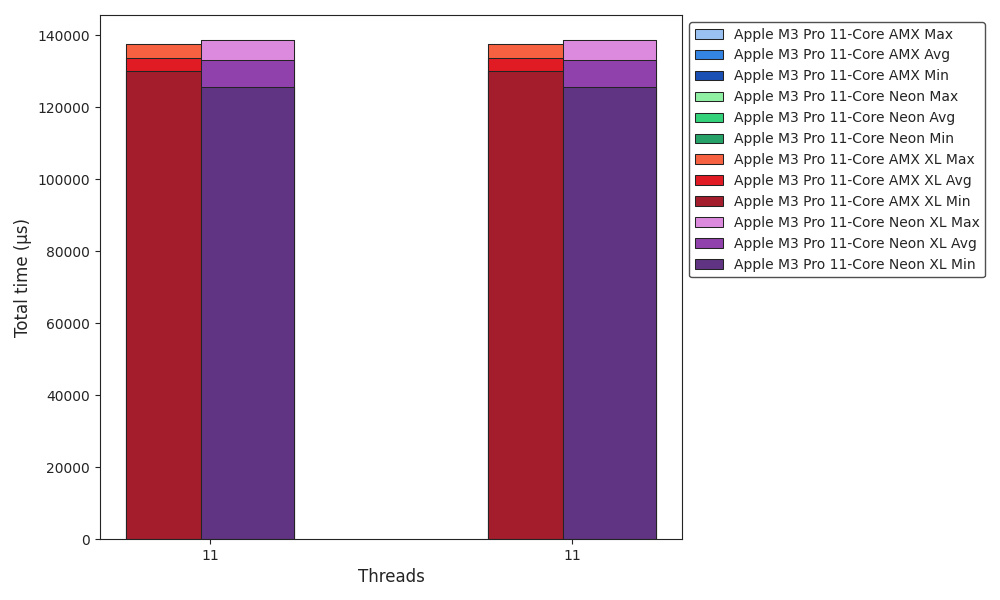
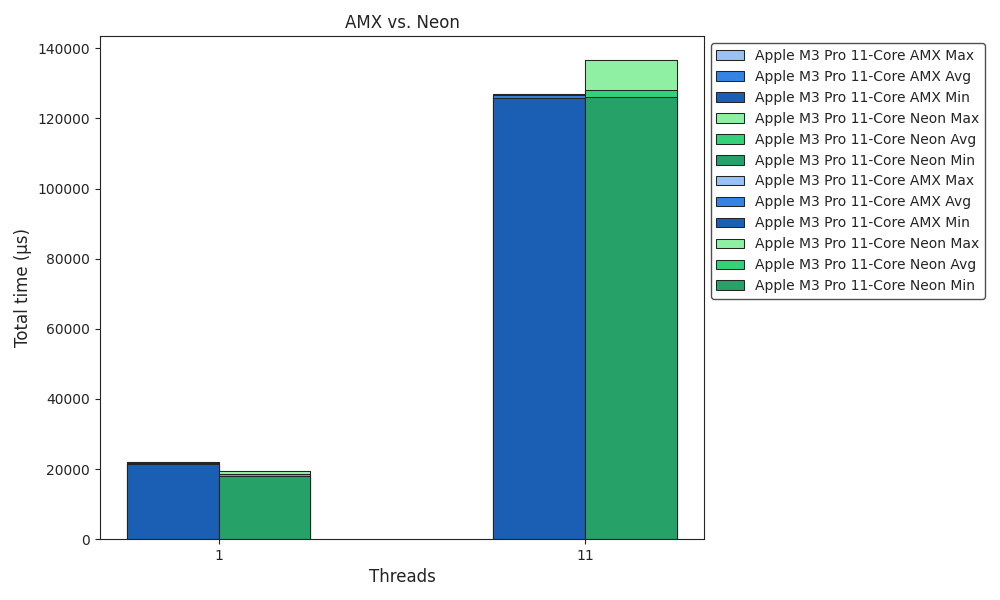
AMX Graphs for 5. Presentation
- Adding two Graphs for AMX vs. Neon
- Adding the final graphs for 5. Presentation

diff --git a/Source Code/py/plot.py b/Source Code/py/plot.py
@@ -62,9 +62,9 @@ df_apple_omp_xl_raw = pd.read_csv("./csv/4. Presentation/apple/benchmark_omp_xl.
 df_apple_xl_raw = pd.read_csv("./csv/4. Presentation/apple/benchmark_xl.csv")
 df_apple_xl_old_raw = pd.read_csv("./csv/3. Presentation/apple/benchmark_xl.csv")
 df_apple_amx = pd.read_csv("./csv/5. Presentation/apple/benchmark_amx.csv")
-df_apple_amx_xl = pd.read_csv("./csv/5. Presentation/apple/benchmark_amx.csv")
+df_apple_amx_xl = pd.read_csv("./csv/5. Presentation/apple/benchmark_amx_xl.csv")
 df_apple_neon = pd.read_csv("./csv/5. Presentation/apple/benchmark.csv")
-df_apple_neon_xl = pd.read_csv("./csv/5. Presentation/apple/benchmark.csv")
+df_apple_neon_xl = pd.read_csv("./csv/5. Presentation/apple/benchmark_xl.csv")
 
 tt_apple = df_apple_raw['total_time_us'].values
 tt_apple_old = df_apple_old_raw['total_time_us'].values
@@ -73,9 +73,9 @@ tt_apple_omp_xl = df_apple_omp_xl_raw['total_time_us'].values
 tt_apple_xl = df_apple_xl_raw['total_time_us'].values
 tt_apple_xl_old = df_apple_xl_old_raw['total_time_us'].values
 tt_apple_amx = df_apple_amx['total_time_us'].values
-tt_apple_amx_xl = df_apple_amx['total_time_us'].values
+tt_apple_amx_xl = df_apple_amx_xl['total_time_us'].values
 tt_apple_neon = df_apple_neon['total_time_us'].values
-tt_apple_neon_xl = df_apple_neon['total_time_us'].values
+tt_apple_neon_xl = df_apple_neon_xl['total_time_us'].values
 
 # intel
 df_intel_raw = pd.read_csv("./csv/4. Presentation/intel/benchmark.csv")
@@ -221,6 +221,19 @@ for i in range(len(threads)):
         df_amd_xl_nvidia_old.loc[threads_omp.index(threads[i]), 'max'] = np.max(tt_amd_xl_nvidia_old[0:10])
 
     # apple
+    if threads[i] == 1:
+        df_apple_amx.loc[threads.index(threads[i]), 'min'] = np.min(tt_apple_amx[10*i:10*(i+1)])
+        df_apple_amx.loc[threads.index(threads[i]), 'avg'] = np.average(tt_apple_amx[10*i:10*(i+1)])
+        df_apple_amx.loc[threads.index(threads[i]), 'max'] = np.max(tt_apple_amx[10*i:10*(i+1)])
+        df_apple_amx_xl.loc[threads.index(threads[i]), 'min'] = np.min(tt_apple_amx_xl[10*i:10*(i+1)])
+        df_apple_amx_xl.loc[threads.index(threads[i]), 'avg'] = np.average(tt_apple_amx_xl[10*i:10*(i+1)])
+        df_apple_amx_xl.loc[threads.index(threads[i]), 'max'] = np.max(tt_apple_amx_xl[10*i:10*(i+1)])
+        df_apple_neon.loc[threads.index(threads[i]), 'min'] = np.min(tt_apple_neon[10*i:10*(i+1)])
+        df_apple_neon.loc[threads.index(threads[i]), 'avg'] = np.average(tt_apple_neon[10*i:10*(i+1)])
+        df_apple_neon.loc[threads.index(threads[i]), 'max'] = np.max(tt_apple_neon[10*i:10*(i+1)])
+        df_apple_neon_xl.loc[threads.index(threads[i]), 'min'] = np.min(tt_apple_neon_xl[10*i:10*(i+1)])
+        df_apple_neon_xl.loc[threads.index(threads[i]), 'avg'] = np.average(tt_apple_neon_xl[10*i:10*(i+1)])
+
     if threads[i] == 11:
         df_apple.loc[threads_omp.index(threads[i]), 'min'] = np.min(tt_apple[10*i:10*(i+1)])
         df_apple.loc[threads_omp.index(threads[i]), 'avg'] = np.average(tt_apple[10*i:10*(i+1)])
@@ -307,7 +320,7 @@ for i in range(len(threads)):
 """
 CREATE FIGURES
 """
-figures = ["simd", "simd_xl", "omp", "omp_xl", "simd_intel", "simd_xl_intel", "omp_intel", "omp_xl_intel", "cuda", "cuda_xl", "cpu_gpu", "cpu_gpu_xl", "amx"]
+figures = ["simd", "simd_xl", "omp", "omp_xl", "simd_intel", "simd_xl_intel", "omp_intel", "omp_xl_intel", "cuda", "cuda_xl", "cpu_gpu", "cpu_gpu_xl", "amx", "amx_xl"]
 for f in figures:
     bar_width = 0.15
 
@@ -657,31 +670,51 @@ for f in figures:
             group_gap = 0.15 # Gap between groups
             indices = np.arange(len(threads_omp)) * (group_width + group_gap) # Indices for each group
 
-            df_apple_amx.drop(df_apple_amx.index[0], inplace=True)
-            df_apple_amx.drop(df_apple_amx.index[1], inplace=True)
+            df_apple_amx.drop(df_apple_amx.index[2], inplace=True)
             df_apple_amx.reset_index(drop=True, inplace=True)
-            df_apple_amx_xl.drop(df_apple_amx_xl.index[0], inplace=True)
-            df_apple_amx_xl.drop(df_apple_amx_xl.index[1], inplace=True)
-            df_apple_amx_xl.reset_index(drop=True, inplace=True)
-            df_apple_neon.drop(df_apple_neon.index[0], inplace=True)
-            df_apple_neon.drop(df_apple_neon.index[1], inplace=True)
+            df_apple_neon.drop(df_apple_neon.index[2], inplace=True)
             df_apple_neon.reset_index(drop=True, inplace=True)
-            df_apple_neon_xl.drop(df_apple_neon_xl.index[0], inplace=True)
-            df_apple_neon_xl.drop(df_apple_neon_xl.index[1], inplace=True)
+
+            ax.bar(indices - 0.5 * bar_width, df_apple_amx['max'], width=bar_width, label=f"{label_apple} AMX Max", color='#99c1f1', edgecolor=foreground_color, linewidth=0.75)
+            ax.bar(indices - 0.5 * bar_width, df_apple_amx['avg'], width=bar_width, label=f"{label_apple} AMX Avg", color='#3584e4', edgecolor=foreground_color, linewidth=0.75)
+            ax.bar(indices - 0.5 * bar_width, df_apple_amx['min'], width=bar_width, label=f"{label_apple} AMX Min", color='#1a5fb4', edgecolor=foreground_color, linewidth=0.75)
+            ax.bar(indices + 0.5 * bar_width, df_apple_neon['max'], width=bar_width, label=f"{label_apple} Neon Max", color='#8ff0a4', edgecolor=foreground_color, linewidth=0.75)
+            ax.bar(indices + 0.5 * bar_width, df_apple_neon['avg'], width=bar_width, label=f"{label_apple} Neon Avg", color='#33d17a', edgecolor=foreground_color, linewidth=0.75)
+            ax.bar(indices + 0.5 * bar_width, df_apple_neon['min'], width=bar_width, label=f"{label_apple} Neon Min", color='#26a269', edgecolor=foreground_color, linewidth=0.75)
+            ax.bar(indices - 0.5 * bar_width, df_apple_amx['max'], width=bar_width, label=f"{label_apple} AMX Max", color='#99c1f1', edgecolor=foreground_color, linewidth=0.75)
+            ax.bar(indices - 0.5 * bar_width, df_apple_amx['avg'], width=bar_width, label=f"{label_apple} AMX Avg", color='#3584e4', edgecolor=foreground_color, linewidth=0.75)
+            ax.bar(indices - 0.5 * bar_width, df_apple_amx['min'], width=bar_width, label=f"{label_apple} AMX Min", color='#1a5fb4', edgecolor=foreground_color, linewidth=0.75)
+            ax.bar(indices + 0.5 * bar_width, df_apple_neon['max'], width=bar_width, label=f"{label_apple} Neon Max", color='#8ff0a4', edgecolor=foreground_color, linewidth=0.75)
+            ax.bar(indices + 0.5 * bar_width, df_apple_neon['avg'], width=bar_width, label=f"{label_apple} Neon Avg", color='#33d17a', edgecolor=foreground_color, linewidth=0.75)
+            ax.bar(indices + 0.5 * bar_width, df_apple_neon['min'], width=bar_width, label=f"{label_apple} Neon Min", color='#26a269', edgecolor=foreground_color, linewidth=0.75)
+
+            ax.set_title("AMX vs. Neon", fontsize=12, color=foreground_color, loc='center')
+        case "amx_xl":
+            bar_width = 0.075
+
+            group_width = bar_width * 2 # Space occupied by one group of bars
+            group_gap = 0.15 # Gap between groups
+            indices = np.arange(len(threads_omp)) * (group_width + group_gap) # Indices for each group
+
+            df_apple_amx_xl.drop(df_apple_amx_xl.index[2], inplace=True)
+            df_apple_amx_xl.reset_index(drop=True, inplace=True)
+            df_apple_neon_xl.drop(df_apple_neon_xl.index[2], inplace=True)
             df_apple_neon_xl.reset_index(drop=True, inplace=True)
 
-            ax.bar(indices - 0.5 * bar_width, df_apple_amx['max'], width=bar_width, label=f"{label_apple} AMX Max", color='#99c1f1', edgecolor=foreground_color, linewidth=0.74)
-            ax.bar(indices - 0.5 * bar_width, df_apple_amx['avg'], width=bar_width, label=f"{label_apple} AMX Avg", color='#3584e4', edgecolor=foreground_color, linewidth=0.74)
-            ax.bar(indices - 0.5 * bar_width, df_apple_amx['min'], width=bar_width, label=f"{label_apple} AMX Min", color='#1a5fb4', edgecolor=foreground_color, linewidth=0.74)
-            ax.bar(indices + 0.5 * bar_width, df_apple_neon['max'], width=bar_width, label=f"{label_apple} Neon Max", color='#8ff0a4', edgecolor=foreground_color, linewidth=0.74)
-            ax.bar(indices + 0.5 * bar_width, df_apple_neon['avg'], width=bar_width, label=f"{label_apple} Neon Avg", color='#33d17a', edgecolor=foreground_color, linewidth=0.74)
-            ax.bar(indices + 0.5 * bar_width, df_apple_neon['min'], width=bar_width, label=f"{label_apple} Neon Min", color='#26a269', edgecolor=foreground_color, linewidth=0.74)
-            ax.bar(indices - 0.5 * bar_width, df_apple_amx_xl['max'], width=bar_width, label=f"{label_apple} AMX XL Max", color='#f66151', edgecolor=foreground_color, linewidth=0.74)
-            ax.bar(indices - 0.5 * bar_width, df_apple_amx_xl['avg'], width=bar_width, label=f"{label_apple} AMX XL Avg", color='#e01b24', edgecolor=foreground_color, linewidth=0.74)
-            ax.bar(indices - 0.5 * bar_width, df_apple_amx_xl['min'], width=bar_width, label=f"{label_apple} AMX XL Min", color='#a51d2d', edgecolor=foreground_color, linewidth=0.74)
-            ax.bar(indices + 0.5 * bar_width, df_apple_neon_xl['max'], width=bar_width, label=f"{label_apple} Neon XL Max", color='#dc8add', edgecolor=foreground_color, linewidth=0.74)
-            ax.bar(indices + 0.5 * bar_width, df_apple_neon_xl['avg'], width=bar_width, label=f"{label_apple} Neon XL Avg", color='#9141ac', edgecolor=foreground_color, linewidth=0.74)
-            ax.bar(indices + 0.5 * bar_width, df_apple_neon_xl['min'], width=bar_width, label=f"{label_apple} Neon XL Min", color='#613583', edgecolor=foreground_color, linewidth=0.74)
+            ax.bar(indices - 0.5 * bar_width, df_apple_amx_xl['max'], width=bar_width, label=f"{label_apple} AMX XL Max", color='#99c1f1', edgecolor=foreground_color, linewidth=0.75)
+            ax.bar(indices - 0.5 * bar_width, df_apple_amx_xl['avg'], width=bar_width, label=f"{label_apple} AMX XL Avg", color='#3584e4', edgecolor=foreground_color, linewidth=0.75)
+            ax.bar(indices - 0.5 * bar_width, df_apple_amx_xl['min'], width=bar_width, label=f"{label_apple} AMX XL Min", color='#1a5fb4', edgecolor=foreground_color, linewidth=0.75)
+            ax.bar(indices + 0.5 * bar_width, df_apple_neon_xl['max'], width=bar_width, label=f"{label_apple} Neon XL Max", color='#8ff0a4', edgecolor=foreground_color, linewidth=0.75)
+            ax.bar(indices + 0.5 * bar_width, df_apple_neon_xl['avg'], width=bar_width, label=f"{label_apple} Neon XL Avg", color='#33d17a', edgecolor=foreground_color, linewidth=0.75)
+            ax.bar(indices + 0.5 * bar_width, df_apple_neon_xl['min'], width=bar_width, label=f"{label_apple} Neon XL Min", color='#26a269', edgecolor=foreground_color, linewidth=0.75)
+            ax.bar(indices - 0.5 * bar_width, df_apple_amx_xl['max'], width=bar_width, label=f"{label_apple} AMX XL Max", color='#99c1f1', edgecolor=foreground_color, linewidth=0.75)
+            ax.bar(indices - 0.5 * bar_width, df_apple_amx_xl['avg'], width=bar_width, label=f"{label_apple} AMX XL Avg", color='#3584e4', edgecolor=foreground_color, linewidth=0.75)
+            ax.bar(indices - 0.5 * bar_width, df_apple_amx_xl['min'], width=bar_width, label=f"{label_apple} AMX XL Min", color='#1a5fb4', edgecolor=foreground_color, linewidth=0.75)
+            ax.bar(indices + 0.5 * bar_width, df_apple_neon_xl['max'], width=bar_width, label=f"{label_apple} Neon XL Max", color='#8ff0a4', edgecolor=foreground_color, linewidth=0.75)
+            ax.bar(indices + 0.5 * bar_width, df_apple_neon_xl['avg'], width=bar_width, label=f"{label_apple} Neon XL Avg", color='#33d17a', edgecolor=foreground_color, linewidth=0.75)
+            ax.bar(indices + 0.5 * bar_width, df_apple_neon_xl['min'], width=bar_width, label=f"{label_apple} Neon XL Min", color='#26a269', edgecolor=foreground_color, linewidth=0.75)
+
+            ax.set_title("AMX vs. Neon XL", fontsize=12, color=foreground_color, loc='center')
 
     ax.set_xlabel("Threads", fontsize=12, color=foreground_color)
     if("cuda" in f):
@@ -692,7 +725,8 @@ for f in figures:
     if("cuda" in f):
         ax.set_xticklabels(["Laptop", "Desktop"], color=foreground_color)
     if("amx" in f):
-        ax.set_xticklabels(["11", "11"], color=foreground_color)
+        ax.set_xlabel("Threads", fontsize=12, color=foreground_color)
+        ax.set_xticklabels(["1", "11"], color=foreground_color)
     ax.tick_params(axis='x', colors=foreground_color)  # X-axis tick marks and labels
     ax.tick_params(axis='y', colors=foreground_color)  # Y-axis tick marks and labels
     ax.legend(loc="upper left", bbox_to_anchor=(1, 1), facecolor=background_color, edgecolor=foreground_color, labelcolor=foreground_color)
@@ -739,7 +773,9 @@ for f in figures:
             plt.savefig("../Graphs/4. Presentation/CPU vs GPU XL.png")
         case "amx":
             plt.savefig("../Graphs/5. Presentation/AMX vs Neon.png")
+        case "amx_xl":
+            plt.savefig("../Graphs/5. Presentation/AMX vs Neon XL.png")
 
     # Show the plot
-    # plt.show()
+    plt.show()
     plt.close(fig)
